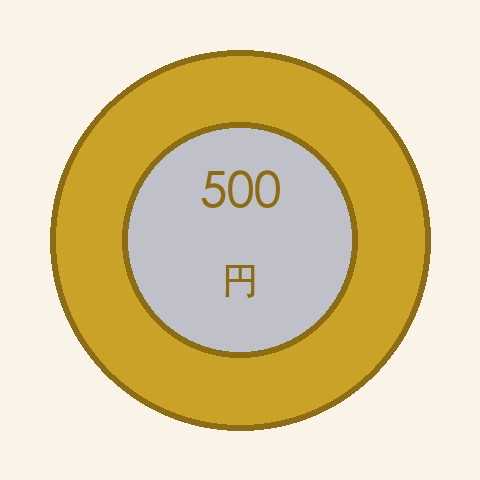
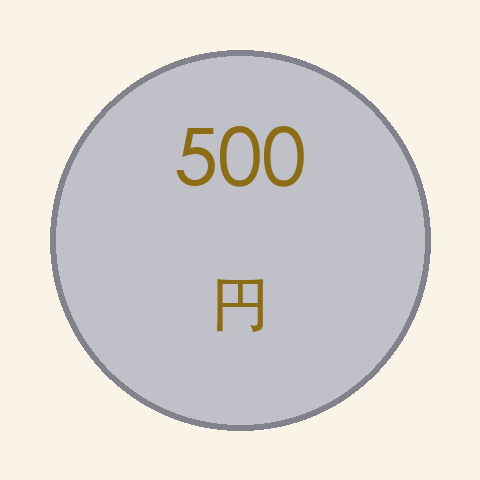
Redesign 500円 coin to match the other 5 coins' visual family
500円 was the only coin drawn as a thick gold ring around a separate silver
inner disc — a structurally different shape from the rest of the set (each
either a plain single-color disc or a plain single-color ring-with-hole),
so it read as a visual outlier ("target"-like) rather than a family member.

Compared the current design against 3 alternatives (thinner ring, medium
ring, solid disc with gold-colored text) via an HIL artifact; picked the
solid-disc option — same silver disc shape as 100円, with "500" printed in
the gold stroke color as a bicolor-ish accent instead of a second
concentric ring.

Claude-Session: https://claude.ai/code/session_018KeXrFEEUWLounacPr8ts6

diff --git a/scripts/generate-coin-images.py b/scripts/generate-coin-images.py
@@ -7,8 +7,16 @@ the same "AI can't guarantee an exact real-world design" failure mode that made
 diamond/oval/rectangle (see generate-shape-images.py) come out wrong. Drawing them
 directly instead guarantees the one thing that actually matters for this app's teaching
 goal — clearly telling the 6 denominations apart — via each coin's real distinguishing
-features: material color (aluminum/brass/copper/silver/bicolor) and whether it has a
-center hole (5円 and 50円 do; the others don't), plus the printed value for certainty.
+features: material color (aluminum/brass/copper/silver) and whether it has a center hole
+(5円 and 50円 do; the others don't), plus the printed value for certainty.
+
+500円 (real-world bicolor) originally got a matching gold-ring-over-silver-disc
+treatment, but a HIL comparison against the other 5 (all a single flat color, either a
+plain disc or a plain ring-with-hole) found the thick second ring read as visually
+structurally different from the rest of the set — like a target, not a coin family
+member. Settled on the same plain-disc shape as 1/10/100円, silver like 100円, with the
+printed number in the gold stroke color instead — keeps a bicolor-ish visual hint without
+introducing a second concentric shape.
 
 Usage:
     python3 scripts/generate-coin-images.py
@@ -47,18 +55,11 @@ def new_canvas():
     return Image.new("RGBA", (SIZE, SIZE), BG)
 
 
-def draw_coin(name, fill, stroke, hole, label, bicolor_inner=None):
+def draw_coin(name, fill, stroke, hole, label, text_color=None):
+    text_color = text_color or stroke
     img = new_canvas()
     d = ImageDraw.Draw(img)
     d.ellipse([CX - R, CY - R, CX + R, CY + R], fill=fill, outline=stroke, width=STROKE_W)
-    inner_r = R * 0.62
-    if bicolor_inner:
-        d.ellipse(
-            [CX - inner_r, CY - inner_r, CX + inner_r, CY + inner_r],
-            fill=bicolor_inner,
-            outline=stroke,
-            width=STROKE_W,
-        )
     if hole:
         hole_r = R * 0.34
         d.ellipse([CX - hole_r, CY - hole_r, CX + hole_r, CY + hole_r], fill=BG, outline=stroke, width=STROKE_W)
@@ -66,35 +67,38 @@ def draw_coin(name, fill, stroke, hole, label, bicolor_inner=None):
         num_font = find_font(int(R * 0.62))
         yen_font = find_font(int(R * 0.34))
         num_bbox = d.textbbox((0, 0), label, font=num_font)
-        d.text((CX - (num_bbox[2] - num_bbox[0]) / 2, CY - R * 0.92), label, font=num_font, fill=stroke)
+        d.text((CX - (num_bbox[2] - num_bbox[0]) / 2, CY - R * 0.92), label, font=num_font, fill=text_color)
         yen_bbox = d.textbbox((0, 0), "円", font=yen_font)
-        d.text((CX - (yen_bbox[2] - yen_bbox[0]) / 2, CY + R * 0.45), "円", font=yen_font, fill=stroke)
+        d.text((CX - (yen_bbox[2] - yen_bbox[0]) / 2, CY + R * 0.45), "円", font=yen_font, fill=text_color)
     else:
-        # Bicolor (500円) keeps the number confined to the inner disc, same reasoning as
-        # the hole case above — otherwise a 3-digit number badly overlaps the ring seam.
-        text_r = inner_r if bicolor_inner else R
+        text_r = R
         size_scale = 0.78 if len(label) == 1 else (0.55 if len(label) == 2 else 0.42)
         num_font = find_font(int(text_r * size_scale))
         yen_font = find_font(int(text_r * 0.34))
         num_bbox = d.textbbox((0, 0), label, font=num_font)
-        d.text((CX - (num_bbox[2] - num_bbox[0]) / 2, CY - text_r * 0.62), label, font=num_font, fill=stroke)
+        d.text((CX - (num_bbox[2] - num_bbox[0]) / 2, CY - text_r * 0.62), label, font=num_font, fill=text_color)
         yen_bbox = d.textbbox((0, 0), "円", font=yen_font)
-        d.text((CX - (yen_bbox[2] - yen_bbox[0]) / 2, CY + text_r * 0.16), "円", font=yen_font, fill=stroke)
+        d.text((CX - (yen_bbox[2] - yen_bbox[0]) / 2, CY + text_r * 0.16), "円", font=yen_font, fill=text_color)
     img.save(os.path.join(OUT_DIR, f"{name}.png"))
     print("wrote", name)
 
 
+GOLD, GOLD_STROKE = (201, 162, 39, 255), (140, 108, 20, 255)
+SILVER, SILVER_STROKE = (192, 192, 200, 255), (130, 130, 140, 255)
+
 # aluminum, no hole
 draw_coin("yen1", (222, 224, 226, 255), (150, 152, 156, 255), False, "1")
 # brass/gold, WITH hole (real 5-yen has a hole)
-draw_coin("yen5", (201, 162, 39, 255), (140, 108, 20, 255), True, "5")
+draw_coin("yen5", GOLD, GOLD_STROKE, True, "5")
 # copper/bronze, no hole
 draw_coin("yen10", (181, 101, 29, 255), (120, 64, 14, 255), False, "10")
 # silver, WITH hole (real 50-yen has a hole)
 draw_coin("yen50", (176, 176, 184, 255), (120, 120, 128, 255), True, "50")
 # silver, no hole
-draw_coin("yen100", (192, 192, 200, 255), (130, 130, 140, 255), False, "100")
-# bicolor gold ring + silver center (real 500-yen is the "special" bicolor coin)
-draw_coin("yen500", (201, 162, 39, 255), (140, 108, 20, 255), False, "500", bicolor_inner=(192, 192, 200, 255))
+draw_coin("yen100", SILVER, SILVER_STROKE, False, "100")
+# same silver disc as 100円 (no hole, like 100円) but the number printed in gold — a
+# nod to the real 500-yen's bicolor look without a second concentric ring (see the
+# HIL comparison note in this file's docstring for why the ring version was dropped).
+draw_coin("yen500", SILVER, SILVER_STROKE, False, "500", text_color=GOLD_STROKE)
 
 print("done")
